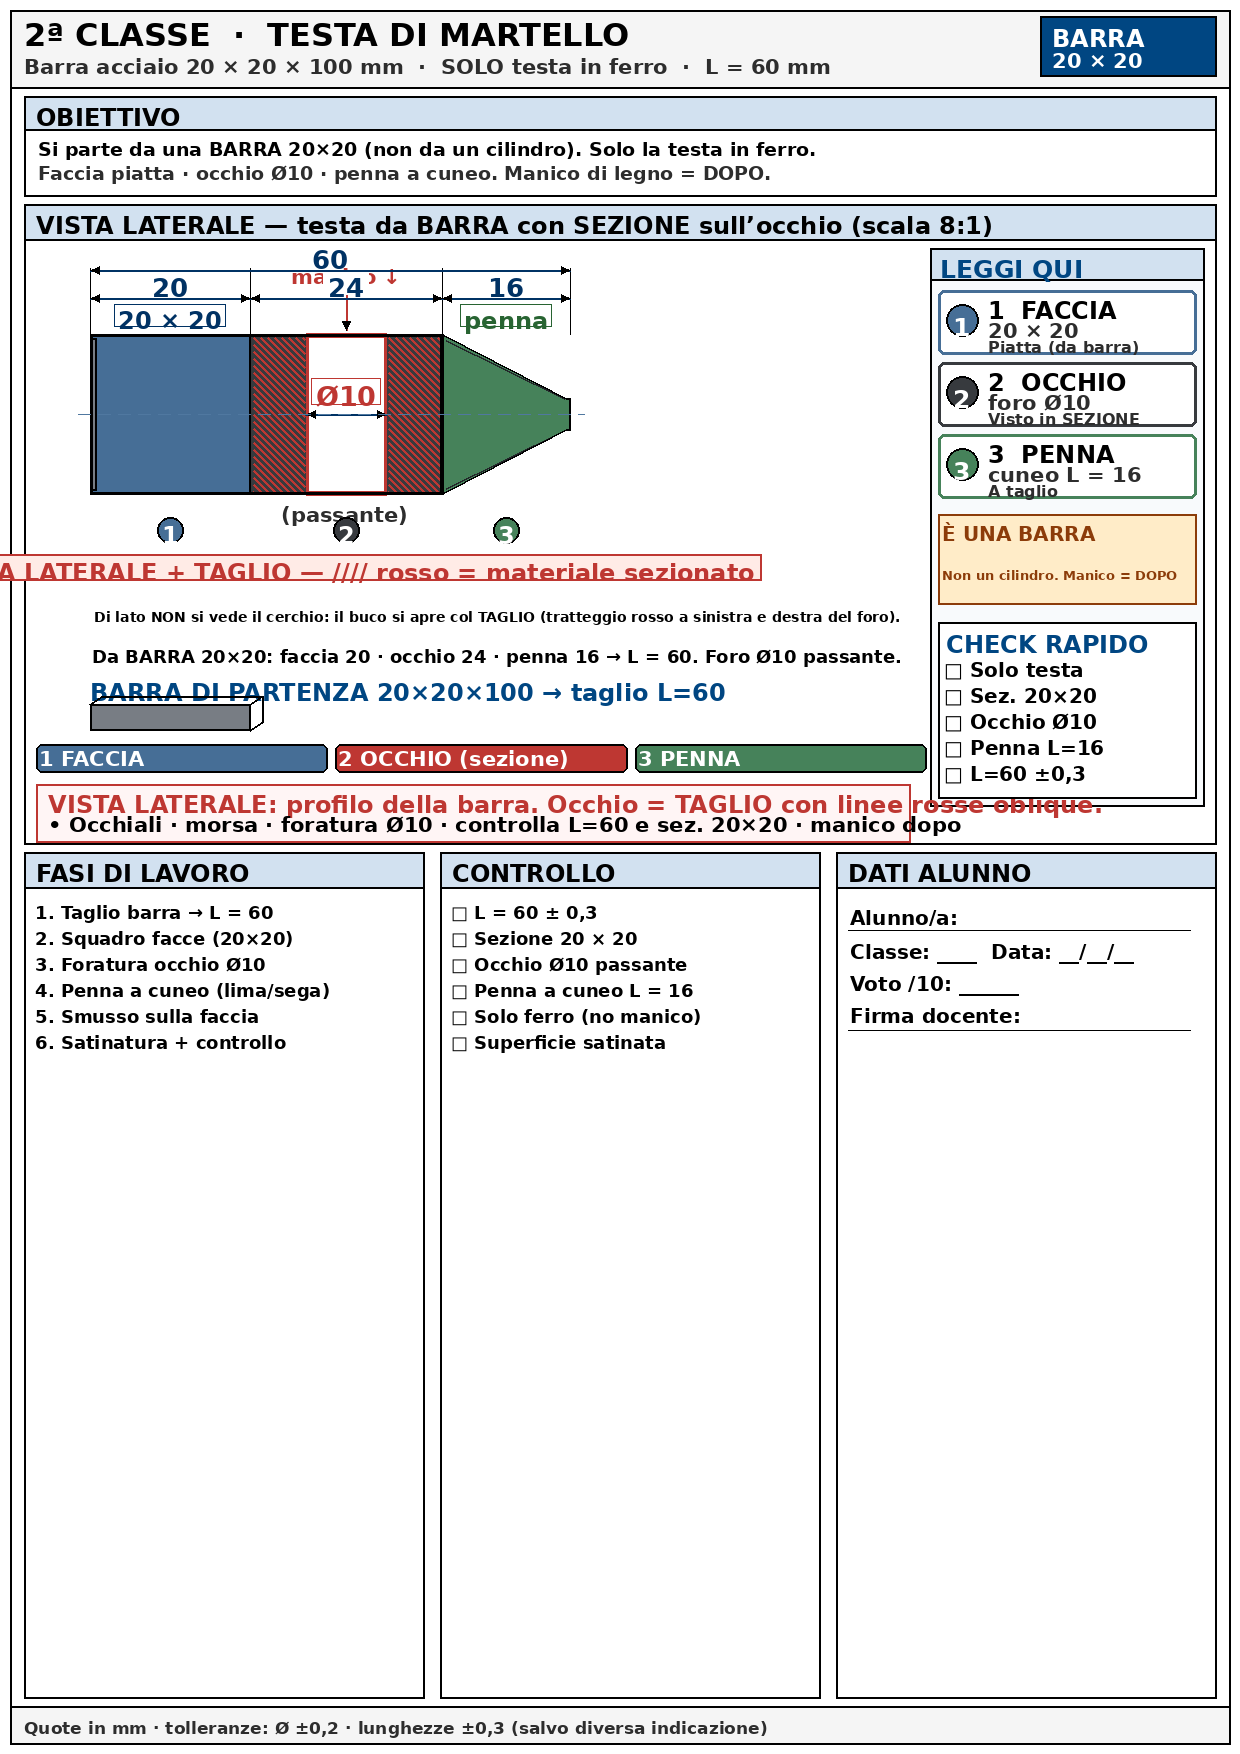
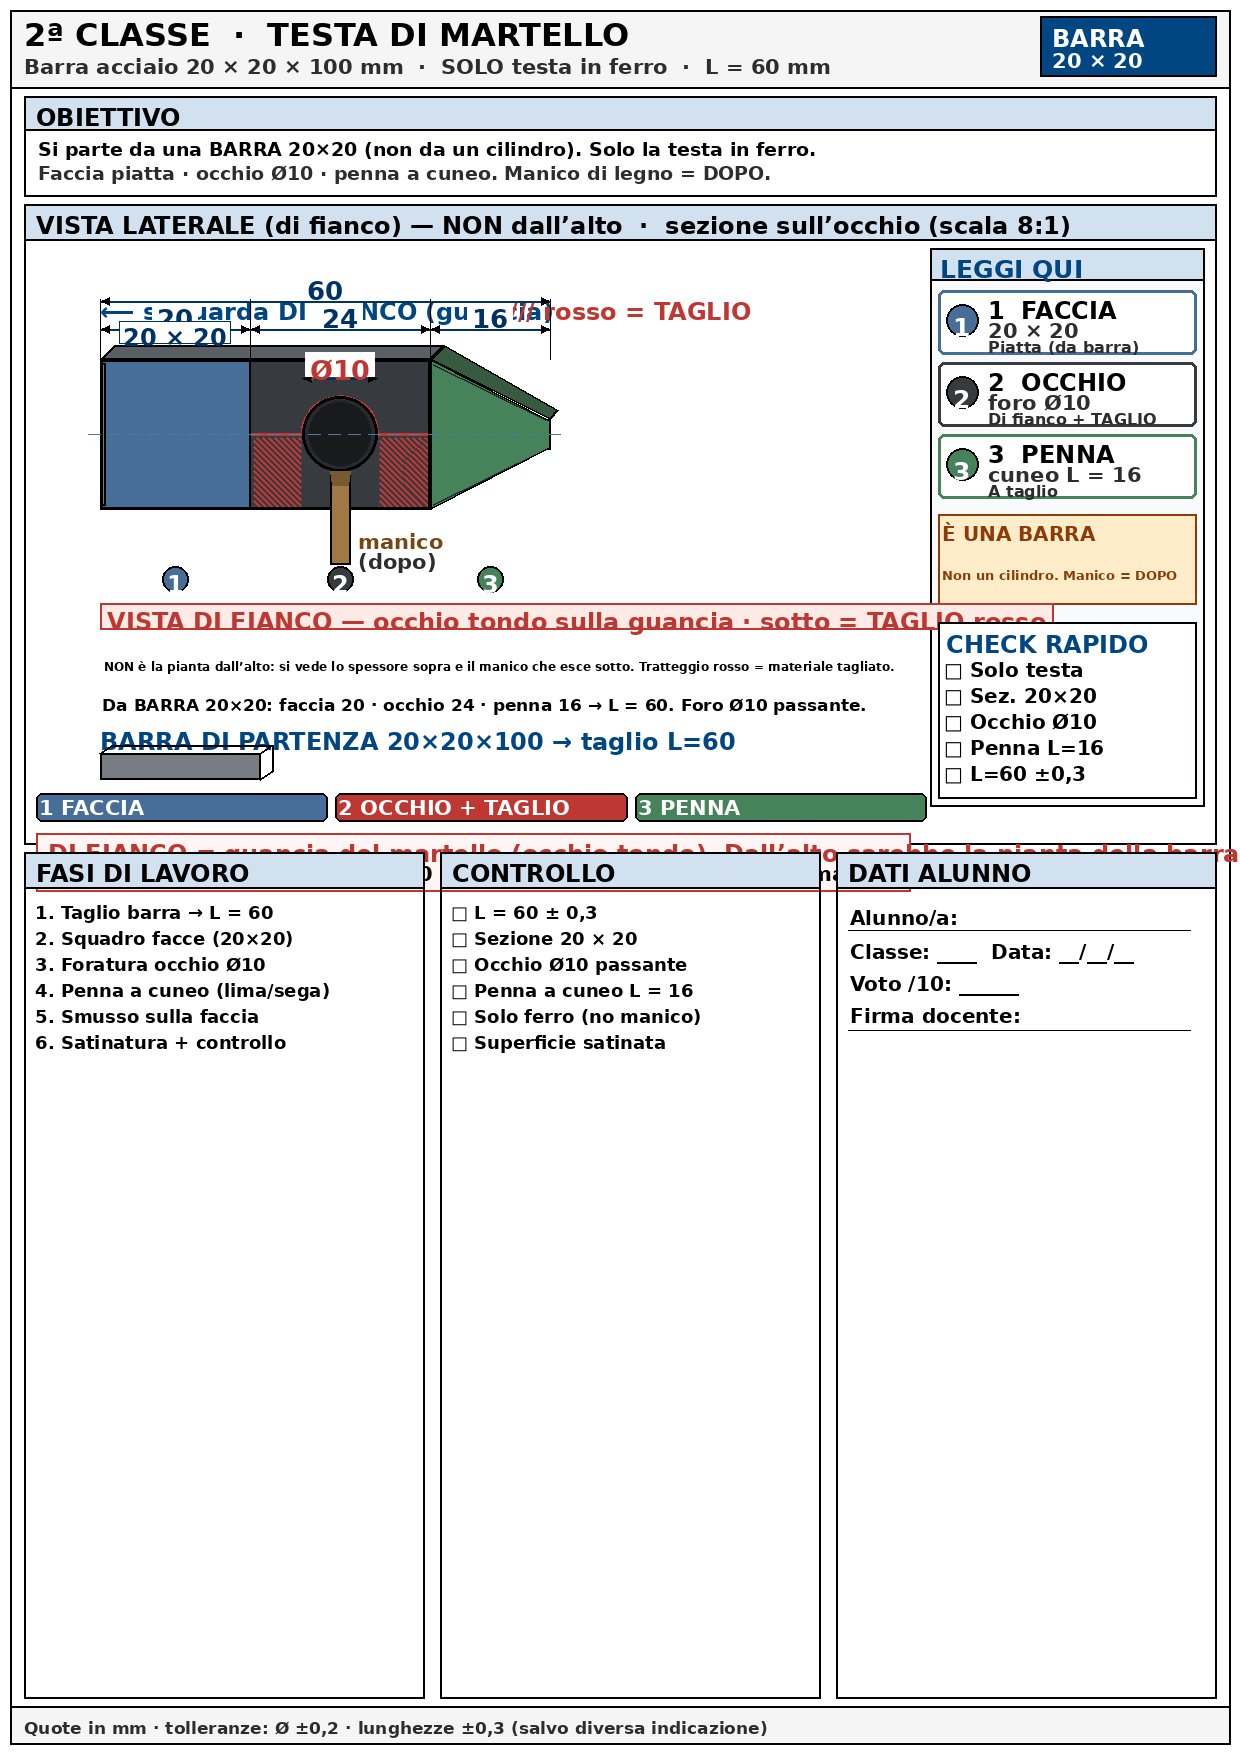
Vista di fianco vera: guancia, occhio tondo, manico sotto, taglio rosso.
Spessore in obliquo così non si confonde con la pianta dall’alto.

Changed region(s): [[0.0, 0.1231, 0.8581, 0.4926], [0.7968, 0.2155, 0.9194, 0.2463], [0.9806, 0.4618, 1.0, 0.4926]]

diff --git a/progetti-ferro-gallery/generate_ferro.py b/progetti-ferro-gallery/generate_ferro.py
@@ -2,6 +2,7 @@
 """Schede A4 ferro al tornio — disegni grandi, quote precise, diciture chiare."""
 from __future__ import annotations
 
+import math
 import os
 from PIL import Image, ImageDraw, ImageFont
 
@@ -489,7 +490,7 @@ def make_2a():
             draw_h += min(slack, 60)
             bot = draw_top + draw_h + 8
             bh = FOOT - bot - 8
-    panel(d, 24, draw_top, W - 48, draw_h, "VISTA LATERALE — testa da BARRA con SEZIONE sull’occhio (scala 8:1)")
+    panel(d, 24, draw_top, W - 48, draw_h, "VISTA LATERALE (di fianco) — NON dall’alto  ·  sezione sull’occhio (scala 8:1)")
     panel_bottom = draw_top + draw_h
 
     FACE_C = (70, 110, 150)
@@ -497,6 +498,7 @@ def make_2a():
     PEEN_C = (70, 130, 90)
     IRON_L = (120, 125, 132)
     IRON_D = (35, 38, 42)
+    TOP_C = (90, 95, 100)   # faccia superiore (spessore)
 
     info_x1, info_x2 = 930, W - 36
     leggi_bottom = draw_top + 418 + 36 + 5 * 26 + 10 + 8
@@ -506,7 +508,7 @@ def make_2a():
 
     blocks = [
         (FACE_C, "FACCIA", "20 × 20", "Piatta (da barra)"),
-        (IRON, "OCCHIO", "foro Ø10", "Visto in SEZIONE"),
+        (IRON, "OCCHIO", "foro Ø10", "Di fianco + TAGLIO"),
         (PEEN_C, "PENNA", "cuneo L = 16", "A taglio"),
     ]
     for i, (col, title, line1, line2) in enumerate(blocks):
@@ -525,15 +527,16 @@ def make_2a():
     text_in_box(d, info_x1 + 8, draw_top + 316, info_x2 - info_x1 - 16, 28, "È UNA BARRA", F14, WARN, pad=4)
     text_in_box(d, info_x1 + 8, draw_top + 348, info_x2 - info_x1 - 16, 44, "Non un cilindro. Manico = DOPO", F13, WARN, pad=4)
 
-    # ── VISTA LATERALE (profilo) + SEZIONE sull’occhio ──
-    # Niente foro tondo “da sopra”: di lato il buco si vede solo col TAGLIO.
-    sc = 8.0
-    mid = draw_top + 210
-    ox = 90
-    Lf, Lo, Lp = 20, 24, 16   # mm
-    h = 10 * sc               # metà altezza barra 20 mm
+    # ── VISTA LATERALE 3/4 (di fianco) con spessore visibile + SEZIONE sull’occhio ──
+    # Non è la pianta dall’alto: si vede la guancia + lo spessore sopra + il manico che esce sotto.
+    sc = 7.5
+    mid = draw_top + 230
+    ox = 100
+    Lf, Lo, Lp = 20, 24, 16
+    h = 10 * sc                 # metà altezza (20 mm)
     tip_h = 2.0 * sc
-    hole_half = 5 * sc        # Ø10 / 2
+    depth = 14                  # px di spessore in obliquo (suggerisce 3D)
+    hole_r = 5 * sc             # Ø10
 
     x0 = ox
     x1 = ox + Lf * sc
@@ -541,64 +544,103 @@ def make_2a():
     end_x = x2 + Lp * sc
     peen_mid = x2 + Lp * sc * 0.5
     hx = (x1 + x2) / 2
-    hole_l, hole_r = hx - hole_half, hx + hole_half
 
     def P(xm, ym):
         return (xm, mid + ym)
 
-    # Corpo barra (faccia + zone occhio ai lati del foro)
+    # --- Faccia superiore (spessore) — parallelogramma: prova che NON è vista dall’alto ---
+    top_face = [
+        (x0, mid - h), (x2, mid - h),
+        (x2 + depth, mid - h - depth), (x0 + depth, mid - h - depth),
+    ]
+    d.polygon(top_face, fill=TOP_C, outline=BLACK, width=2)
+    # spessore penna (cima)
+    peen_top = [
+        (x2, mid - h), (end_x, mid - tip_h),
+        (end_x + depth * 0.6, mid - tip_h - depth * 0.6),
+        (x2 + depth, mid - h - depth),
+    ]
+    d.polygon(peen_top, fill=(55, 90, 65), outline=BLACK, width=2)
+
+    # --- Guancia (vista laterale vera) ---
     d.rectangle([x0, mid - h, x2, mid + h], fill=IRON, outline=BLACK, width=3)
     d.rectangle([x0, mid - h, x1, mid + h], fill=FACE_C, outline=BLACK, width=2)
-    d.rectangle([x0, mid - h + 4, x0 + 6, mid + h - 4], fill=IRON_L, outline=BLACK, width=2)
+    d.rectangle([x0, mid - h + 4, x0 + 5, mid + h - 4], fill=IRON_L, outline=BLACK, width=2)
 
-    # PENNA a cuneo (profilo laterale)
     penna = [
-        P(x2, -h), P(x2 + 8, -h + 4),
-        P(end_x - 4, -tip_h), P(end_x, -tip_h),
-        P(end_x, tip_h), P(end_x - 4, tip_h),
-        P(x2 + 8, h - 4), P(x2, h),
+        P(x2, -h), P(x2 + 6, -h + 3),
+        P(end_x - 3, -tip_h), P(end_x, -tip_h),
+        P(end_x, tip_h), P(end_x - 3, tip_h),
+        P(x2 + 6, h - 3), P(x2, h),
     ]
     d.polygon(penna, fill=PEEN_C, outline=BLACK, width=2)
-    d.line([x2 + 4, mid - h + 6, end_x - 6, mid - tip_h], fill=IRON_D, width=2)
-    d.line([x2 + 4, mid + h - 6, end_x - 6, mid + tip_h], fill=IRON_D, width=2)
+    d.line([x2 + 3, mid - h + 5, end_x - 5, mid - tip_h], fill=IRON_D, width=2)
+    d.line([x2 + 3, mid + h - 5, end_x - 5, mid + tip_h], fill=IRON_D, width=2)
 
-    # ── TAGLIO sull’occhio: buco passante + tratteggio rosso (NO cerchio da sopra) ──
-    # Metallo tagliato a sinistra e a destra del foro
-    hatch_rect(d, x1 + 2, mid - h + 2, hole_l - 1, mid + h - 2, CAP_RED, step=7, width=2)
-    hatch_rect(d, hole_r + 1, mid - h + 2, x2 - 2, mid + h - 2, CAP_RED, step=7, width=2)
-    # Foro = rettangolo vuoto dall’alto al basso (passante), visto di lato
-    d.rectangle([hole_l, mid - h + 1, hole_r, mid + h - 1], fill=WHITE, outline=CAP_RED, width=3)
-    # Linee di taglio rosse in alto e in basso sul foro
-    d.line([hole_l, mid - h, hole_r, mid - h], fill=CAP_RED, width=3)
-    d.line([hole_l, mid + h, hole_r, mid + h], fill=CAP_RED, width=3)
-    # Ricontorno pezzo
+    # Occhio = cerchio sulla GUANCIA (si guarda di fianco, manico verso di noi / sotto)
+    d.ellipse([hx - hole_r, mid - hole_r, hx + hole_r, mid + hole_r], fill=(40, 42, 45), outline=BLACK, width=3)
+    d.ellipse(
+        [hx - hole_r + 6, mid - hole_r + 5, hx + hole_r - 6, mid + hole_r - 5],
+        fill=(25, 26, 28), outline=IRON_D, width=1,
+    )
+
+    # ── TAGLIO / SEZIONE locale sull’occhio (metà inferiore) con tratteggio ROSSO ──
+    # Rimuove la metà sotto del metallo intorno al foro e mostra il materiale tagliato
+    sec_y = mid  # piano di taglio orizzontale
+    # zona sezionata: sotto il centro, tra x1 e x2, fuori dal foro
+    hatch_rect(d, x1 + 2, sec_y + 2, hx - hole_r - 1, mid + h - 2, CAP_RED, step=6, width=2)
+    hatch_rect(d, hx + hole_r + 1, sec_y + 2, x2 - 2, mid + h - 2, CAP_RED, step=6, width=2)
+    # bordo del taglio
+    d.line([x1, sec_y, hx - hole_r, sec_y], fill=CAP_RED, width=3)
+    d.line([hx + hole_r, sec_y, x2, sec_y], fill=CAP_RED, width=3)
+    # semicirconferenza inferiore del foro evidenziata in rosso
+    # (arco approssimato con lineette)
+    for a0 in range(0, 180, 8):
+        a1 = a0 + 8
+        r = hole_r
+        x_a = hx + r * math.cos(math.radians(a0 + 180))
+        y_a = mid + r * math.sin(math.radians(a0 + 180))
+        x_b = hx + r * math.cos(math.radians(a1 + 180))
+        y_b = mid + r * math.sin(math.radians(a1 + 180))
+        d.line([x_a, y_a, x_b, y_b], fill=CAP_RED, width=3)
+
+    # ricontorno
     d.rectangle([x0, mid - h, x2, mid + h], outline=BLACK, width=3)
     d.line([x1, mid - h, x1, mid + h], fill=BLACK, width=1)
     d.line([x2, mid - h, x2, mid + h], fill=BLACK, width=2)
     d.polygon(penna, outline=BLACK, width=2)
+    d.ellipse([hx - hole_r, mid - hole_r, hx + hole_r, mid + hole_r], outline=BLACK, width=3)
 
-    # Quota Ø10 sul buco (orizzontale = diametro visto in sezione)
-    d.line([hole_l, mid, hole_r, mid], fill=DIM_COL, width=2)
-    arrow_h(d, hole_l, mid, left=True)
-    arrow_h(d, hole_r, mid, left=False)
+    # Quota Ø10
+    d.line([hx - hole_r, mid - hole_r - 18, hx + hole_r, mid - hole_r - 18], fill=DIM_COL, width=2)
+    arrow_h(d, hx - hole_r, mid - hole_r - 18, left=True)
+    arrow_h(d, hx + hole_r, mid - hole_r - 18, left=False)
     otw = d.textlength("Ø10", font=F15)
-    d.rectangle([hx - otw / 2 - 4, mid - 36, hx + otw / 2 + 4, mid - 10], fill=WHITE, outline=CAP_RED, width=1)
-    d.text((hx - otw / 2, mid - 34), "Ø10", fill=CAP_RED, font=F15)
+    d.rectangle([hx - otw / 2 - 4, mid - hole_r - 44, hx + otw / 2 + 4, mid - hole_r - 20], fill=WHITE)
+    d.text((hx - otw / 2, mid - hole_r - 42), "Ø10", fill=CAP_RED, font=F15)
 
-    # Freccia “manico” che entra dall’alto nel buco (passante)
-    d.line([hx, mid - h - 48, hx, mid - h - 4], fill=CAP_RED, width=2)
-    arrow_v(d, hx, mid - h - 4, up=False)
-    mtw = d.textlength("manico ↓", font=F12)
-    d.text((hx - mtw / 2, mid - h - 70), "manico ↓", fill=CAP_RED, font=F12)
-    d.text((hx - mtw / 2 - 10, mid + h + 8), "(passante)", fill=GRAY, font=F12)
+    # Manico che ESCE SOTTO (prova: si guarda di fianco, non dall’alto)
+    stem_w = 10
+    d.rectangle([hx - stem_w, mid + hole_r, hx + stem_w, mid + h + 55], fill=(160, 120, 70), outline=BLACK, width=2)
+    d.polygon(
+        [(hx - stem_w, mid + hole_r), (hx + stem_w, mid + hole_r),
+         (hx + stem_w - 2, mid + hole_r + 14), (hx - stem_w + 2, mid + hole_r + 14)],
+        fill=(120, 90, 50),
+    )
+    d.text((hx + stem_w + 8, mid + h + 20), "manico", fill=(120, 70, 20), font=F12)
+    d.text((hx + stem_w + 8, mid + h + 40), "(dopo)", fill=GRAY, font=F12)
+
+    # Etichetta freccia “SI GUARDA DI FIANCO”
+    d.text((x0, mid - h - depth - 48), "⟵ si guarda DI FIANCO (guancia)", fill=ACCENT, font=F13)
+    d.text((x0 + 400, mid - h - depth - 48), "//// rosso = TAGLIO", fill=CAP_RED, font=F13)
 
     centerline(d, x0 - 12, end_x + 14, mid)
 
-    top_r = mid - h
-    q1 = top_r - 36
+    top_r = mid - h - depth - 8
+    q1 = top_r - 8
     q0 = q1 - 28
     for xx in (x0, x1, x2, end_x):
-        ext_tick(d, xx, top_r, q0 - 2)
+        ext_tick(d, xx, mid - h, q0 - 2)
     dim_h(d, x0, x1, q1, "20")
     dim_h(d, x1, x2, q1, "24")
     dim_h(d, x2, end_x, q1, "16")
@@ -609,30 +651,28 @@ def make_2a():
         d.rectangle([cx - tw / 2 - 4, yy - 2, cx + tw / 2 + 4, yy + 20], fill=WHITE, outline=col, width=1)
         d.text((cx - tw / 2, yy), text, fill=col, font=F13)
 
-    lab_box((x0 + x1) / 2, mid - h - 28, "20 × 20", DIM_COL)
-    lab_box(peen_mid, mid - h - 28, "penna", (40, 100, 50))
+    lab_box((x0 + x1) / 2, mid - h - depth - 22, "20 × 20", DIM_COL)
 
     def badge(cx, cy, n, bg):
         d.ellipse([cx - 13, cy - 13, cx + 13, cy + 13], fill=bg, outline=BLACK, width=2)
         tw = d.textlength(n, font=F13)
         d.text((cx - tw / 2, cy - 9), n, fill=WHITE, font=F13)
 
-    badge_y = mid + h + 36
+    badge_y = mid + h + 70
     badge((x0 + x1) / 2, badge_y, "1", FACE_C)
     badge(hx, badge_y, "2", IRON)
     badge(peen_mid, badge_y, "3", PEEN_C)
 
-    ftxt = "VISTA LATERALE + TAGLIO — //// rosso = materiale sezionato"
+    ftxt = "VISTA DI FIANCO — occhio tondo sulla guancia · sotto = TAGLIO rosso"
     ftw = d.textlength(ftxt, font=F13) + 14
     fy = badge_y + 24
-    d.rectangle([hx - ftw / 2, fy, hx + ftw / 2, fy + 26], fill=(255, 235, 230), outline=CAP_RED, width=2)
-    d.text((hx - ftw / 2 + 7, fy + 4), ftxt, fill=CAP_RED, font=F13)
+    d.rectangle([max(ox, hx - ftw / 2), fy, max(ox, hx - ftw / 2) + ftw, fy + 26], fill=(255, 235, 230), outline=CAP_RED, width=2)
+    d.text((max(ox, hx - ftw / 2) + 7, fy + 4), ftxt, fill=CAP_RED, font=F13)
 
-    # Nota sotto: niente vista da sopra
     note_y = fy + 40
     text_in_box(
         d, ox, note_y, info_x1 - ox - 24, 44,
-        "Di lato NON si vede il cerchio: il buco si apre col TAGLIO (tratteggio rosso a sinistra e destra del foro).",
+        "NON è la pianta dall’alto: si vede lo spessore sopra e il manico che esce sotto. Tratteggio rosso = materiale tagliato.",
         F13, BLACK, pad=4,
     )
     text_in_box(
@@ -641,7 +681,6 @@ def make_2a():
         F13, BLACK, pad=2,
     )
 
-    # Mini barra di partenza
     bx, by = ox, note_y + 84
     d.text((bx, by), "BARRA DI PARTENZA 20×20×100 → taglio L=60", fill=ACCENT, font=F13)
     d.rectangle([bx, by + 26, bx + 160, by + 52], fill=IRON_L, outline=BLACK, width=2)
@@ -653,7 +692,7 @@ def make_2a():
 
     legend = [
         ("1 FACCIA", FACE_C, WHITE),
-        ("2 OCCHIO (sezione)", CAP_RED, WHITE),
+        ("2 OCCHIO + TAGLIO", CAP_RED, WHITE),
         ("3 PENNA", PEEN_C, WHITE),
     ]
     tag_y = by + 66
@@ -666,7 +705,7 @@ def make_2a():
 
     tip_y = tag_y + 40
     tips = [
-        "VISTA LATERALE: profilo della barra. Occhio = TAGLIO con linee rosse oblique.",
+        "DI FIANCO = guancia del martello (occhio tondo). Dall’alto sarebbe la pianta della barra.",
         "• Occhiali · morsa · foratura Ø10 · controlla L=60 e sez. 20×20 · manico dopo",
     ]
     tip_step = 22
